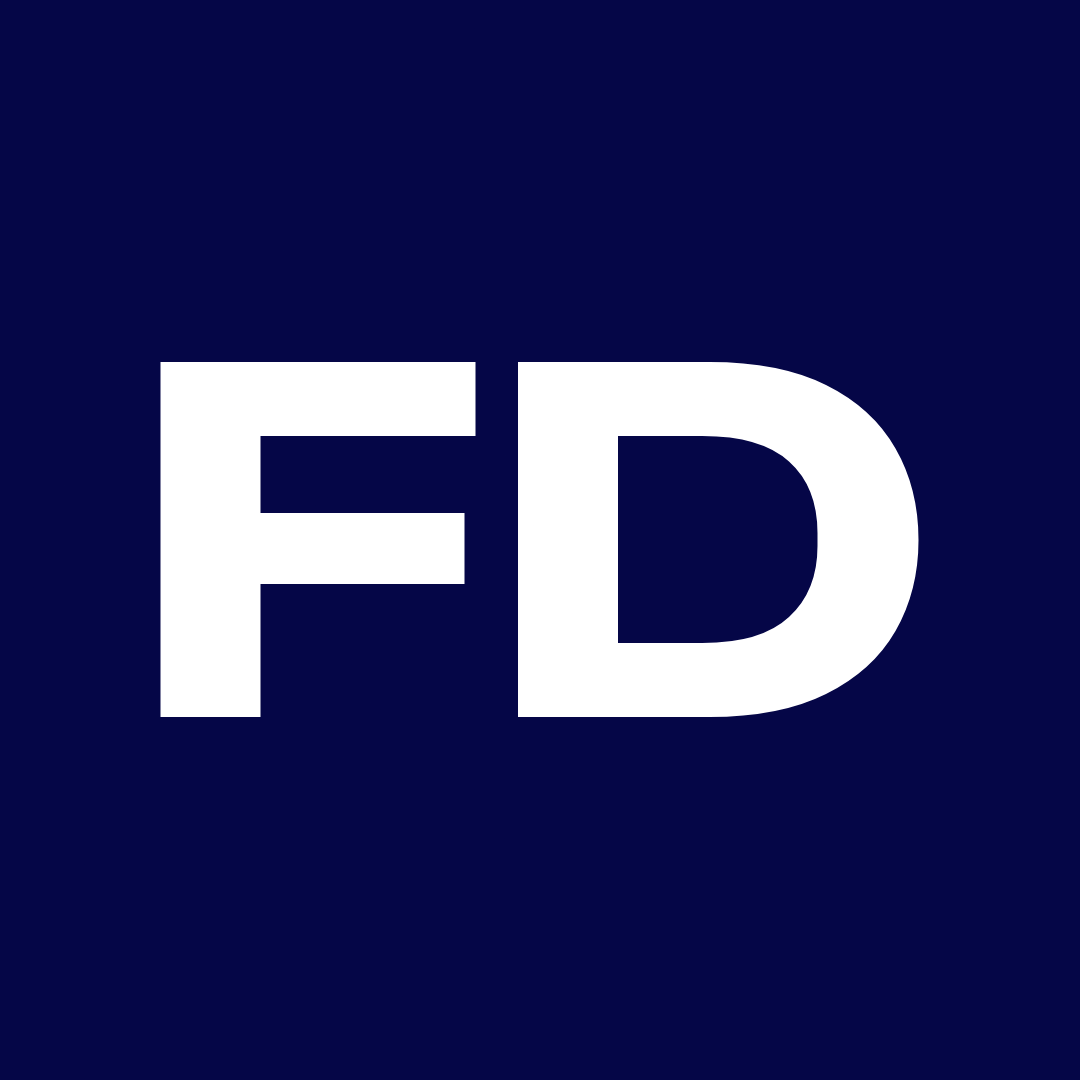
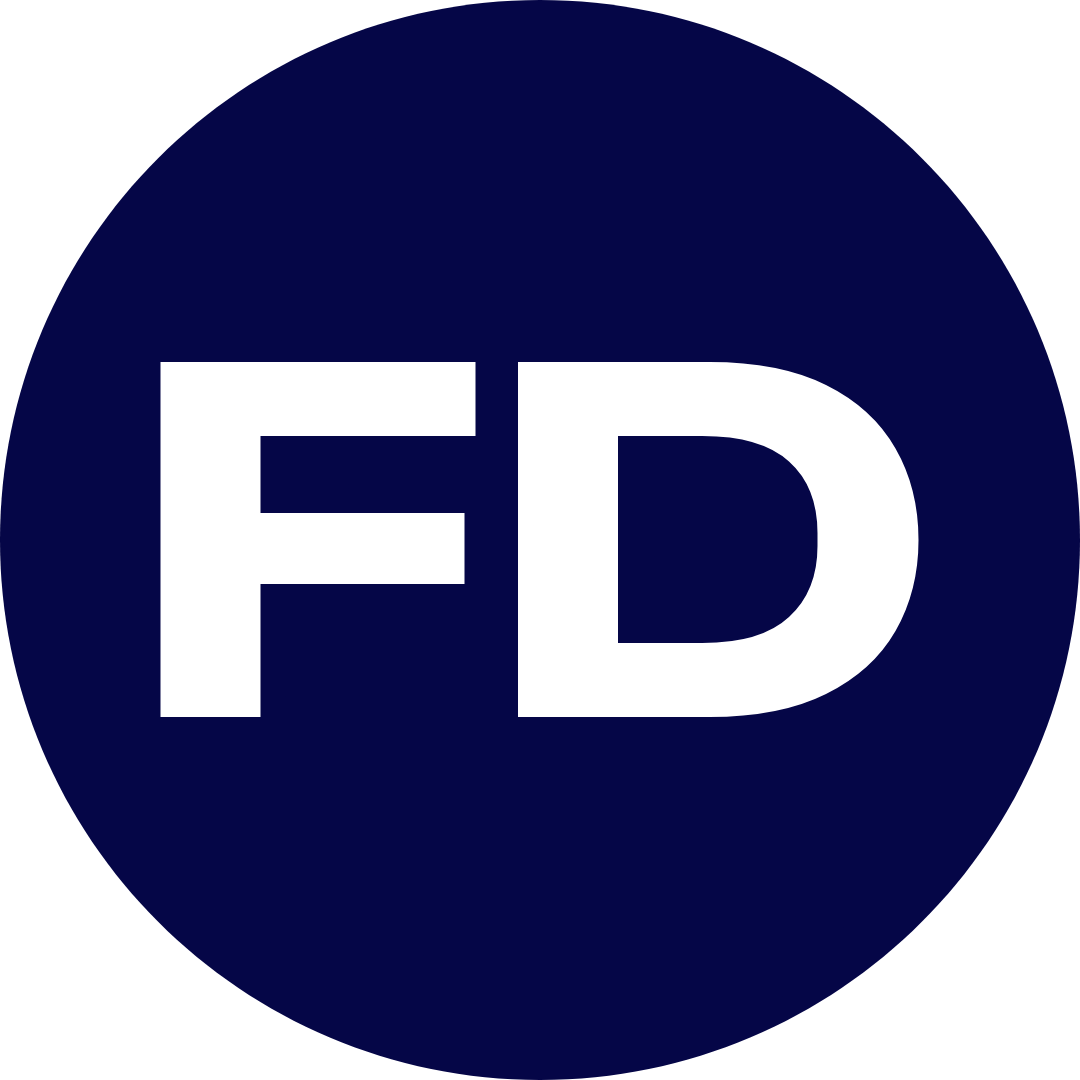
feat: update homepage with scroll-to-top button and improve navbar links

diff --git a/src/pages/HomePage.jsx b/src/pages/HomePage.jsx
@@ -1,10 +1,27 @@
 import { Link } from "react-router-dom"
+import { useState, useEffect } from "react"
 
 // components
 import ProjectsSection from "../components/ProjectsSection"
 import ContactsSection from "../components/ContactsSection"
 
 export default function HomePage() {
+
+    const [showGoUp, setShowGoUp] = useState(false);
+
+    useEffect(() => {
+        const handleScroll = () => {
+            setShowGoUp(window.scrollY > 100); // mostra dopo 100px di scroll
+        };
+        window.addEventListener("scroll", handleScroll);
+        return () => window.removeEventListener("scroll", handleScroll);
+    }, []);
+
+    // go up
+    const handleGoUp = () => {
+        window.scrollTo({ top: 0, behavior: "smooth" });
+    };
+
     return (
         <>
             <div className="py-3">
@@ -22,56 +39,59 @@ export default function HomePage() {
                             Mi affascina tutto ciò che si nasconde dietro le quinte di un sito: perché sì, dietro una "semplice interfaccia" si apre un universo fatto di logica, creatività e un bel po’ di caffè ☕!
                         </p>
 
-                        <div className="text-center">
+                        <div className="text-center d-flex justify-content-around">
                             <Link
-                                className="text-dark btn-floating"
+                                className="text-dark d-flex justify-content-between align-items-center"
                                 to={"https://github.com/francescodelmonaco"}
                                 target="_blank"
                                 rel="noopener noreferrer"
                             >
-                                <i className="fab fa-github fs-1 p-3 rounded-circle"></i>
-                                {/* <span className="ms-2 text-sans">GitHub</span> */}
+                                <i className="fab fa-github fs-3 p-2"></i>
+                                <span className="ms-2 text-sans">GitHub</span>
                             </Link>
 
                             <Link
-                                className="text-dark btn-floating"
+                                className="text-dark d-flex justify-content-between align-items-center"
                                 to={"https://www.linkedin.com/in/francescodelmonaco/"}
                                 target="_blank"
                                 rel="noopener noreferrer"
                             >
-                                <i className="fab fa-linkedin fs-1 p-3 rounded-circle"></i>
-                                {/* <span className="ms-2 text-sans">LinkedIn</span> */}
+                                <i className="fab fa-linkedin fs-3 p-2"></i>
+                                <span className="ms-2 text-sans">LinkedIn</span>
                             </Link>
 
                             <a
-                                className="text-dark btn-floating"
+                                className="text-dark d-flex justify-content-between align-items-center"
                                 href="/cv-francesco-delmonaco.pdf"
                                 download
                             >
-                                <i className="fa-solid fa-file fs-1 p-3 rounded-circle"></i>
-                                {/* <span className="ms-2 text-sans">CV</span> */}
+                                <i className="fa-solid fa-file fs-3 p-2"></i>
+                                <span className="ms-2 text-sans">CV</span>
                             </a>
                         </div>
                     </div>
                 </div>
             </div>
 
-            {/* <div className="py-3">
-                <h2 className="text-center pb-2">Tech Stack</h2>
+            <div id="projects">
+                <ProjectsSection />
+            </div>
 
-                <div className="d-flex justify-content-between gap-3">
-                    <span className="badge rounded-pill p-3 w-100 fs-6 pill">HTML</span>
-                    <span className="badge rounded-pill p-3 w-100 fs-6 pill">CSS</span>
-                    <span className="badge rounded-pill p-3 w-100 fs-6 pill">JAVASCRIPT</span>
-                    <span className="badge rounded-pill p-3 w-100 fs-6 pill">EXPRESS</span>
-                    <span className="badge rounded-pill p-3 w-100 fs-6 pill">REACT</span>
-                    <span className="badge rounded-pill p-3 w-100 fs-6 pill">MYSQL</span>
+            <div id="contacts">
+                <ContactsSection />
+            </div>
+
+            {showGoUp && (
+                <div className="d-flex justify-content-end position-fixed bottom-0 end-0">
+                    <button
+                        type="button"
+                        className="go-up"
+                        onClick={handleGoUp}
+                    >
+                        <i className="fas fa-arrow-up fs-3 p-3 text-light"></i>
+                    </button>
                 </div>
-            </div> */}
-
-            <ProjectsSection />
-
-            <ContactsSection />
+            )}
         </>
     )
 }

diff --git a/src/components/NavBar.jsx b/src/components/NavBar.jsx
@@ -1,23 +1,24 @@
-import { Link, NavLink } from "react-router-dom"
+import { Link } from "react-router-dom"
 
 export default function NavBar() {
     return (
         <header>
             <nav className="navbar navbar-expand-lg glass px-3" data-bs-theme="dark">
                 <div className="container-fluid">
-                    <Link className="navbar-brand" to={"/"}>F D</Link>
+                    <Link className="navbar-brand" to={"/"} onClick={scrollTo(0, 0)}>F D</Link>
 
                     <button className="navbar-toggler" type="button" data-bs-toggle="collapse" data-bs-target="#navbarSupportedContent" aria-controls="navbarSupportedContent" aria-expanded="false" aria-label="Toggle navigation">
                         <span className="navbar-toggler-icon"></span>
                     </button>
 
                     <div className="collapse navbar-collapse" id="navbarSupportedContent">
-                        <ul className="navbar-nav me-auto mb-2 mb-lg-0 w-100 d-flex justify-content-end">
+                        <ul className="navbar-nav me-auto mb-2 mb-lg-0 w-100 d-flex justify-content-end gap-3">
                             <li className="nav-item">
-                                <NavLink className="nav-link" aria-current="page" to={"/projects"}>Progetti</NavLink>
+                                <a href="#projects">Progetti</a>
                             </li>
+
                             <li className="nav-item">
-                                <NavLink className="nav-link" aria-current="page" to={"/contacts"}>Contatti</NavLink>
+                                <a href="#contacts">Contatti</a>
                             </li>
                         </ul>
                     </div>

diff --git a/src/App.jsx b/src/App.jsx
@@ -5,8 +5,8 @@ import DefaultLayout from "./layouts/DefaultLayout";
 
 // pages
 import HomePage from "./pages/HomePage";
-import ProjectsPage from "./pages/ProjectsPage";
-import ContactsPage from "./pages/ContactsPage";
+// import ProjectsPage from "./pages/ProjectsPage";
+// import ContactsPage from "./pages/ContactsPage";
 
 export default function App() {
   return (
@@ -14,8 +14,8 @@ export default function App() {
       <Routes>
         <Route Component={DefaultLayout}>
           <Route path="/" Component={HomePage} />
-          <Route path="/projects" Component={ProjectsPage} />
-          <Route path="/contacts" Component={ContactsPage} />
+          {/* <Route path="/projects" Component={ProjectsPage} /> */}
+          {/* <Route path="/contacts" Component={ContactsPage} /> */}
         </Route>
       </Routes>
     </BrowserRouter>

diff --git a/src/index.css b/src/index.css
@@ -35,6 +35,11 @@ nav {
   border-bottom-right-radius: 10px;
 }
 
+a {
+  text-decoration: none !important;
+  color: var(--white) !important;
+}
+
 li {
   position: relative;
 }
@@ -45,7 +50,7 @@ li::after {
   left: 0;
   bottom: 0;
   width: 100%;
-  height: 4px;
+  height: 3px;
   background-color: var(--white);
   transform: scaleX(0);
   transform-origin: center;
@@ -71,18 +76,18 @@ button {
   background-color: var(--blue-el) !important;
 }
 
-i {
-  width: 70px;
-  height: 70px;
-}
-
-i:hover {
-  background-color: rgba(222, 222, 222, 0.7);
-}
-
 form input,
 textarea {
   border: 1px solid var(--white);
+}
+
+.go-up {
+  border: 1px solid var(--blue-el);
+  border-radius: 50%;
+  background-color: var(--blue-el);
+  z-index: 1000 !important;
+  margin-bottom: 7rem;
+  margin-right: 5rem;
 }
 
 /* footer */

diff --git a/index.html b/index.html
@@ -3,7 +3,7 @@
 
 <head>
   <meta charset="UTF-8" />
-  <!-- <link rel="icon" type="image/svg+xml" href="/vite.svg" /> -->
+  <link rel="icon" type="image/svg+xml" href="/img/profile-photo-blue.webp" />
   <meta name="viewport" content="width=device-width, initial-scale=1.0" />
   <title>Francesco Delmonaco</title>
 
@@ -16,6 +16,9 @@
 <body>
   <div id="root"></div>
   <script type="module" src="/src/main.jsx"></script>
+
+  <!-- cursor effect -->
+  <script src="https://unpkg.com/cursor-effects@latest/dist/browser.js"></script>
 </body>
 
 </html>
